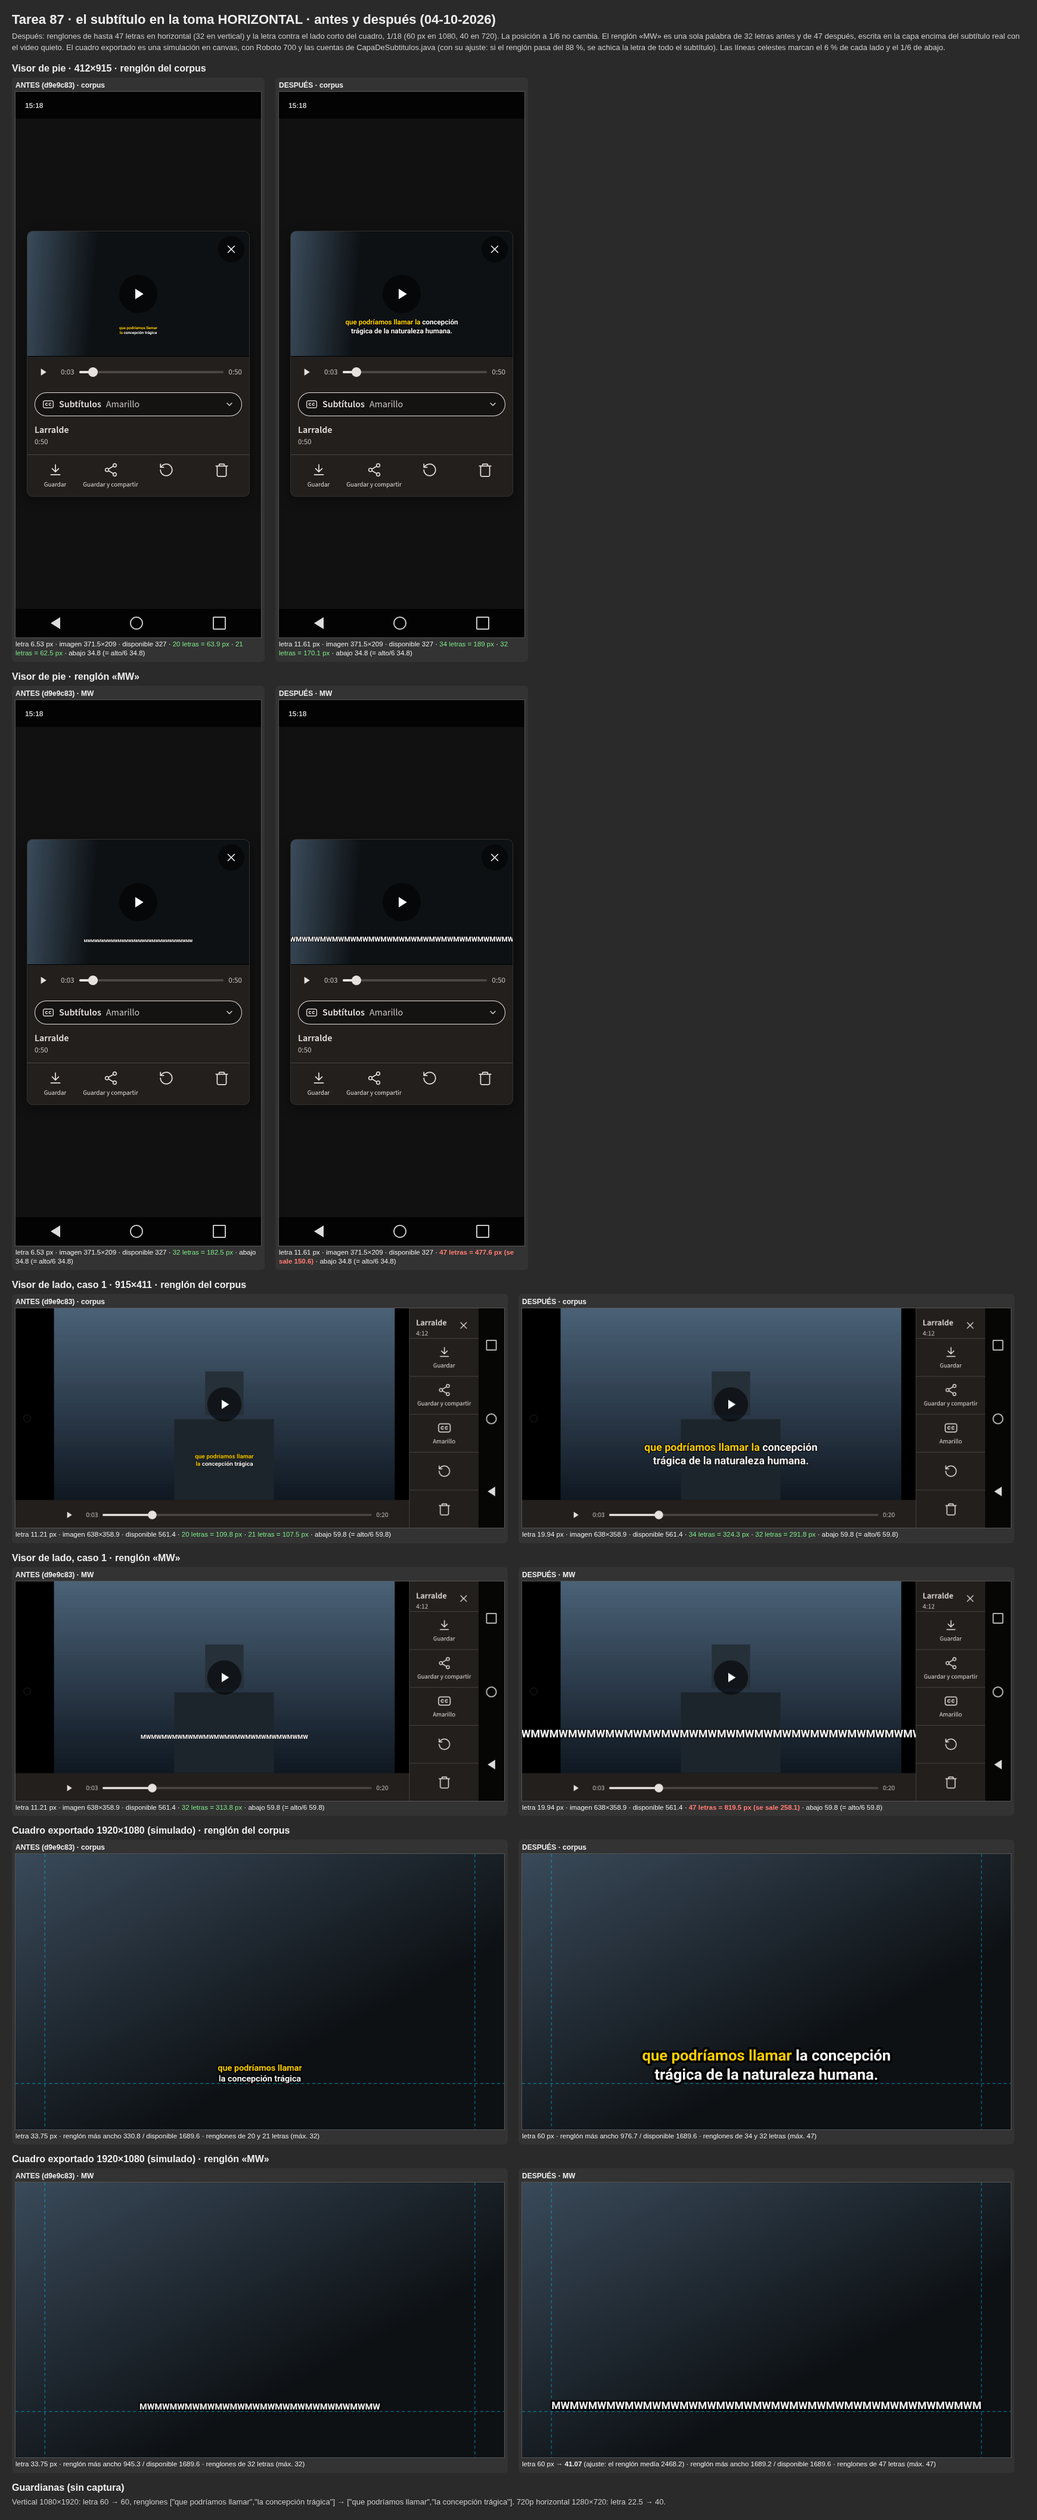
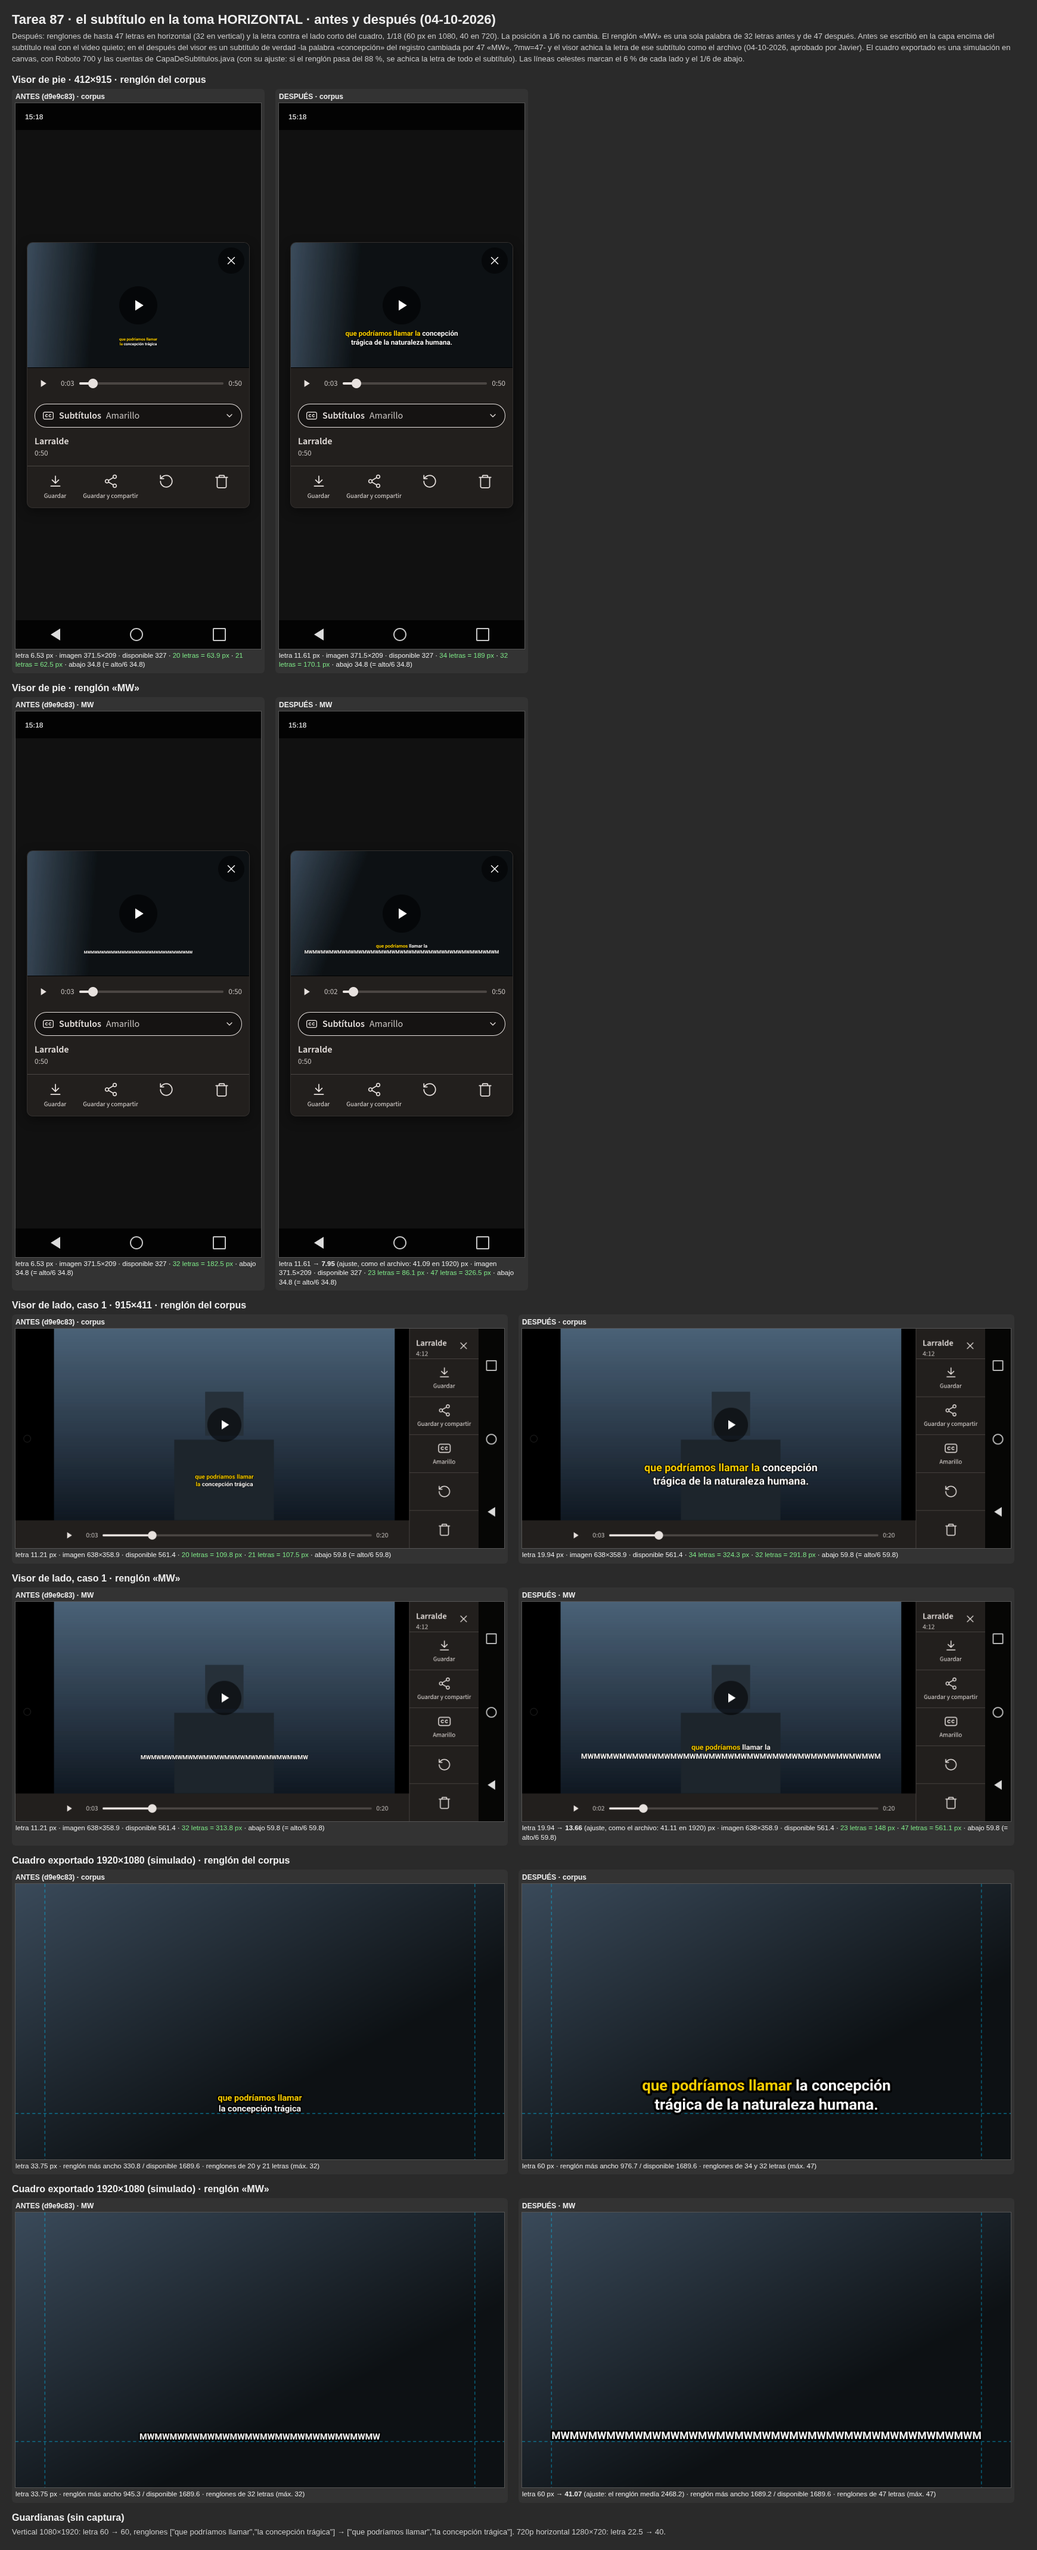
Tarea 87: el visor achica el renglón ancho como el archivo -canvas measureText, letraQueCabe- y la letra es el menor entre lado corto/18 y lado largo/32 -ninguna vertical cambia-; lámina horizontal: las vistas MW del visor

diff --git a/src/pruebas/tarea87-renglon-ancho.test.tsx b/src/pruebas/tarea87-renglon-ancho.test.tsx
@@ -1,0 +1,93 @@
+// EL RENGLÓN ANCHO EN EL VISOR Y LA LETRA MENOR -tarea 87, 04-10-2026, aprobado por Javier en el #71-:
+//   (1) el visor achica como el archivo: si el renglón más ancho pasa del 88 % de la imagen, la letra de
+//       ese subtítulo baja con la misma cuenta que UbicacionSubtitulos.letraQueCabe;
+//   (2) la letra es el menor entre lado corto / 18 y lado largo / 32: en 16:9 lo mismo que antes y
+//       ninguna vertical cambia -480×640 da 20-.
+// jsdom no tiene canvas: la medida -lib/medirTexto.ts- se reemplaza por los avances de Roboto Bold, los
+// mismos de UbicacionSubtitulosTest.java -M 1793, W 1792, espacio 509 de 2048 por em-; el resto de las
+// letras, 0,55 em.
+import React from 'react'
+import fs from 'node:fs'
+import path from 'node:path'
+import { describe, expect, test, vi, afterEach } from 'vitest'
+import { render, act, fireEvent, cleanup } from '@testing-library/react'
+
+const EM: Record<string, number> = { M: 1793 / 2048, W: 1792 / 2048, ' ': 509 / 2048 }
+const enEm = (t: string) => [...t].reduce((s, c) => s + (EM[c] ?? 0.55), 0)
+vi.mock('../lib/medirTexto', () => ({
+  anchoDelRenglonMasAncho: (renglones: string[], letra: number) => Math.max(...renglones.map((r) => enEm(r) * letra))
+}))
+
+import * as S from '../lib/subtitulos'
+import { CapaSubtitulos } from '../components/SubtitulosVisor'
+
+const JAVA = fs.readFileSync(path.join(__dirname, '..', '..', 'android', 'app', 'src', 'main', 'java', 'com', 'sigoteleprompter', 'app', 'UbicacionSubtitulos.java'), 'utf8')
+const MW47 = 'MW'.repeat(24).slice(0, 47)
+const sub = (renglones: string[]): S.Subtitulo => ({ desdeMs: 0, hastaMs: 5000, renglones: renglones.map((r) => r.split(' ').map((t) => ({ texto: t, desdeMs: 0, hastaMs: 100 }))) })
+
+// Un <video> con la forma del archivo y la caja que le da el visor.
+function capa(subs: S.Subtitulo[], ancho: number, alto: number, cajaAncho: number, cajaAlto: number) {
+  const v = document.createElement('video')
+  Object.defineProperty(v, 'videoWidth', { configurable: true, value: ancho })
+  Object.defineProperty(v, 'videoHeight', { configurable: true, value: alto })
+  Object.defineProperty(v, 'clientWidth', { configurable: true, value: cajaAncho })
+  Object.defineProperty(v, 'clientHeight', { configurable: true, value: cajaAlto })
+  Object.defineProperty(v, 'currentTime', { configurable: true, writable: true, value: 1 })
+  document.body.appendChild(v)
+  render(<CapaSubtitulos video={v} subtitulos={subs} estilo="amarillo" />)
+  return v
+}
+const esperar = () => act(async () => { await new Promise((r) => setTimeout(r, 20)) })
+afterEach(() => { cleanup(); document.body.innerHTML = '' })
+
+describe('(2) La letra: el menor entre lado corto / 18 y lado largo / 32', () => {
+  test('480×640 -vertical 3:4- da 20, como antes -640 / 32-; 640×480 también', () => {
+    expect(S.letraSubtitulo(480, 640)).toBe(20)
+    expect(S.letraSubtitulo(640, 480)).toBe(20)
+  })
+  test('GUARDIANA: en 16:9 lo de ahora -60 en 1080, 40 en 720-, de pie y acostado', () => {
+    expect(S.letraSubtitulo(1920, 1080)).toBe(60)
+    expect(S.letraSubtitulo(1080, 1920)).toBe(60)
+    expect(S.letraSubtitulo(1280, 720)).toBe(40)
+    expect(S.letraSubtitulo(720, 1280)).toBe(40)
+  })
+})
+
+describe('(1) El visor achica el renglón ancho como el archivo', () => {
+  test('la cuenta: 47 MW a 60 px en 1920 -2468 px- bajan a ~41,07 y caben en el 88 %', () => {
+    const ancho = enEm(MW47) * 60
+    expect(ancho).toBeGreaterThan(1920 * 0.88)
+    const l = S.letraQueCabe(60, ancho, 1920)
+    expect(l).toBeCloseTo(41.07, 1)
+    expect(enEm(MW47) * l).toBeLessThanOrEqual(1920 * S.ANCHO_UTIL_SUBTITULOS + 1e-6)
+    // Si cabe, no cambia.
+    expect(S.letraQueCabe(60, 1000, 1920)).toBe(60)
+  })
+
+  for (const [donde, cw, ch] of [['de pie', 372, 209.25], ['de lado, caso 1', 638, 358.875]] as const) {
+    test(`47 MW ${donde}: el renglón queda dentro del 88 % de la imagen, y la letra es la del archivo`, async () => {
+      capa([sub([MW47])], 1920, 1080, cw, ch)
+      await esperar()
+      const c = document.querySelector('[data-testid="capa-subtitulos"]') as HTMLElement
+      const letra = parseFloat(c.style.fontSize)
+      const w = parseFloat(c.style.width)
+      expect(enEm(MW47) * letra).toBeLessThanOrEqual(w * 0.88 + 1e-6)
+      expect(letra).toBeLessThan(S.letraSubtitulo(w, parseFloat(c.style.height)))
+      // La misma letra que el archivo de 1920×1080, en proporción a la imagen.
+      const archivo = S.letraQueCabe(60, enEm(MW47) * 60, 1920)
+      expect(letra * (1920 / w)).toBeCloseTo(archivo, 3)
+    })
+  }
+
+  test('GUARDIANA: un renglón que cabe no cambia la letra', async () => {
+    capa([sub(['que podríamos llamar la concepción', 'trágica de la naturaleza humana.'])], 1920, 1080, 372, 209.25)
+    await esperar()
+    const c = document.querySelector('[data-testid="capa-subtitulos"]') as HTMLElement
+    expect(parseFloat(c.style.fontSize)).toBeCloseTo(209.25 / 18, 6)
+  })
+
+  test('GUARDIANA: las cifras de TS y de Java son las mismas', () => {
+    expect(JAVA).toMatch(new RegExp(`ANCHO_UTIL = ${S.ANCHO_UTIL_SUBTITULOS}f;`))
+    expect(JAVA).toMatch(new RegExp(`LADO_LARGO_EN_LETRAS = ${S.LADO_LARGO_EN_LETRAS}f;`))
+  })
+})

diff --git a/src/components/SubtitulosVisor.tsx b/src/components/SubtitulosVisor.tsx
@@ -1,6 +1,7 @@
 import React from 'react'
 import { hapticaSeleccion } from '../haptica'
-import { ESTILOS_SUBTITULO, EstiloSubtitulo, Subtitulo, subtituloEn, MARGEN_ABAJO_SUBTITULOS, letraSubtitulo } from '../lib/subtitulos'
+import { ESTILOS_SUBTITULO, EstiloSubtitulo, Subtitulo, subtituloEn, MARGEN_ABAJO_SUBTITULOS, letraSubtitulo, letraQueCabe } from '../lib/subtitulos'
+import { anchoDelRenglonMasAncho } from '../lib/medirTexto'
 import { t, useTextos, ClaveTexto } from '../textos'
 import { IconoSubtitulos } from './IconosApp'
 
@@ -84,12 +85,19 @@ export function CapaSubtitulos({
   if (estilo === 'no' || !rect) return null
   const s = subtituloEn(subtitulos, ms)
   if (!s) return null
+  // -tarea 87, 04-10-2026, aprobado por Javier- La letra del cuadro y, si el renglón más ancho no cabe
+  // en el 88 % de la imagen, la misma letra achicada que tendrá quemada -letraQueCabe, la cuenta de
+  // UbicacionSubtitulos.java-. Medido con canvas y Roboto -lib/medirTexto.ts-; sin medida, sin ajuste.
+  const letraBase = letraSubtitulo(rect.w, rect.h)
+  const masAncho = anchoDelRenglonMasAncho(s.renglones.map((r) => r.map((w) => w.texto).join(' ')), letraBase, estilo !== 'formal')
+  const letra = masAncho === null ? letraBase : letraQueCabe(letraBase, masAncho, rect.w)
 
   return (
     <div
       className="capa-subtitulos"
       data-testid="capa-subtitulos"
       data-estilo={estilo}
+      data-letra-base={letraBase}
       aria-hidden="true"
       style={{
         left: rect.x,
@@ -101,7 +109,8 @@ export function CapaSubtitulos({
         // 1280-.
         // -tarea 87, subtítulos en horizontal- Contra el lado corto de la imagen, la misma cuenta del
         // archivo: en vertical es la de siempre; en horizontal ya no sale chica. Antes: rect.h / 32.
-        fontSize: letraSubtitulo(rect.w, rect.h)
+        // Antes, en esta misma tarea: letraSubtitulo(rect.w, rect.h), sin el ajuste del renglón ancho.
+        fontSize: letra
       }}
     >
       {/* -tarea 87, 04-10-2026- Un sexto del alto de la imagen, en vertical y en horizontal: la

diff --git a/src/lib/subtitulos.ts b/src/lib/subtitulos.ts
@@ -74,9 +74,22 @@ export function letrasPorRenglon(forma: FormaCuadro | 'cuadrada' | null | undefi
 // lado corto, o sea 60 px en 1080 y 40 en 720, en las dos orientaciones. En la vertical de 9:16 es la
 // letra de siempre -1/32 del alto, la del prototipo, 40 sobre 1280-. La misma cuenta que
 // UbicacionSubtitulos.letra en Java. Antes: alto / 32, que en horizontal daba 33,75 en 1080.
+// -04-10-2026, aprobado por Javier- El MENOR entre lado corto / 18 y lado largo / 32: en 16:9 los dos
+// dan lo mismo -60 en 1920×1080 y en 1080×1920- y ninguna vertical cambia -un 480×640 sigue en 20,
+// lado largo / 32, como antes; con solo el lado corto daba 26,7-. Antes: lado corto / 18 a secas.
 export const LADO_CORTO_EN_LETRAS = 18
+export const LADO_LARGO_EN_LETRAS = 32
 export function letraSubtitulo(ancho: number, alto: number): number {
-  return Math.min(ancho, alto) / LADO_CORTO_EN_LETRAS
+  return Math.min(Math.min(ancho, alto) / LADO_CORTO_EN_LETRAS, Math.max(ancho, alto) / LADO_LARGO_EN_LETRAS)
+}
+// EL AJUSTE DEL RENGLÓN ANCHO -04-10-2026, aprobado por Javier-: si el renglón más ancho del subtítulo,
+// medido a la letra "letra", pasa del 88 % del ancho de la imagen, se achica la letra de todo ese
+// subtítulo en la misma proporción. La misma cuenta que UbicacionSubtitulos.letraQueCabe del archivo:
+// así el visor muestra lo mismo que se guarda.
+export const ANCHO_UTIL_SUBTITULOS = 0.88
+export function letraQueCabe(letra: number, masAncho: number, ancho: number): number {
+  const util = ancho * ANCHO_UTIL_SUBTITULOS
+  return masAncho > util ? (letra * util) / masAncho : letra
 }
 // Una pausa de la voz de mas de esto corta el subtitulo aunque la oracion siga.
 export const PAUSA_QUE_CORTA_MS = 450

diff --git a/src/lib/medirTexto.ts b/src/lib/medirTexto.ts
@@ -1,0 +1,29 @@
+// EL ANCHO DE UN RENGLÓN DE SUBTÍTULO, MEDIDO CON LA LETRA DE VERDAD -tarea 87, 04-10-2026, aprobado
+// por Javier-. El visor achica la letra de un subtítulo cuyo renglón más ancho pasa del 88 % de la
+// imagen, como el archivo -UbicacionSubtitulos.letraQueCabe, que mide con Paint.measureText-. Aquí se
+// mide con un canvas -measureText- con la misma letra del sistema que usa la capa: Roboto, 700 en
+// amarillo y rojo y 400 en formal. Sin dependencias nuevas.
+// Devuelve null si no se puede medir -sin canvas, o en jsdom, que no lo implementa-: entonces el visor
+// deja la letra sin ajuste, como antes.
+let ctx: CanvasRenderingContext2D | null | undefined
+function contexto(): CanvasRenderingContext2D | null {
+  if (ctx !== undefined) return ctx
+  try {
+    if (typeof document === 'undefined' || (typeof navigator !== 'undefined' && /jsdom/i.test(navigator.userAgent))) ctx = null
+    else ctx = document.createElement('canvas').getContext('2d')
+  } catch {
+    ctx = null
+  }
+  return ctx
+}
+
+// El ancho, en px, del renglón más ancho a la letra "letra". Los renglones van con sus palabras
+// unidas por un espacio, como los dibuja la capa y como los suma anchoDe en CapaDeSubtitulos.java.
+export function anchoDelRenglonMasAncho(renglones: string[], letra: number, negrita: boolean): number | null {
+  const c = contexto()
+  if (!c) return null
+  c.font = `${negrita ? 700 : 400} ${letra}px Roboto, sans-serif`
+  let max = 0
+  for (const r of renglones) max = Math.max(max, c.measureText(r).width)
+  return max
+}

diff --git a/docs/pantallas/tarea87/implementacion/herramientas/archivosNativosApp.ts b/docs/pantallas/tarea87/implementacion/herramientas/archivosNativosApp.ts
@@ -14,7 +14,12 @@ export type AnalisisVideo = { duracionMs: number; bytes: number; tienePistaAudio
 export type FormaDeToma = Record<string, unknown>
 export async function directorioGrabaciones(): Promise<string> { return '/grabaciones' }
 export async function escribirTexto(_r: string, _c: string): Promise<void> {}
+// ?mw=47 -tarea 87, el renglón ancho, 04-10-2026-: la palabra «concepción» del registro -en el guion y
+// en lo oído- pasa a ser una sola palabra de 47 letras «MW», para ver el ajuste del visor con un
+// subtítulo de verdad.
 export async function leerTexto(_ruta: string): Promise<string> {
+  const mw = Number(q.get('mw') || '0')
+  if (q.get('subs') === 'si' && mw > 0) return registro.split('concepción').join('MW'.repeat(mw).slice(0, mw))
   if (q.get('subs') === 'si') return registro
   throw new Error('sin registro')
 }

diff --git a/android/app/src/main/java/com/sigoteleprompter/app/UbicacionSubtitulos.java b/android/app/src/main/java/com/sigoteleprompter/app/UbicacionSubtitulos.java
@@ -36,9 +36,13 @@ final class UbicacionSubtitulos {
     // píxel: 1080 / 18 = 1920 / 32 = 60. La misma cuenta que letraSubtitulo en src/lib/subtitulos.ts.
     // Antes: H / 32f en CapaDeSubtitulos, que en horizontal daba 33,75 en 1080.
     static final float LADO_CORTO_EN_LETRAS = 18f;
+    // -04-10-2026, aprobado por Javier- El MENOR entre lado corto / 18 y lado largo / 32: en 16:9 da lo
+    // mismo y ninguna vertical cambia -480×640 sigue en 20-. LADO_LARGO_EN_LETRAS en subtitulos.ts.
+    // Antes: Math.min(W, H) / LADO_CORTO_EN_LETRAS a secas.
+    static final float LADO_LARGO_EN_LETRAS = 32f;
 
     static float letra(float W, float H) {
-        return Math.min(W, H) / LADO_CORTO_EN_LETRAS;
+        return Math.min(Math.min(W, H) / LADO_CORTO_EN_LETRAS, Math.max(W, H) / LADO_LARGO_EN_LETRAS);
     }
 
     // El ancho que puede ocupar un renglón: el 88 % del cuadro -6 % de margen a cada lado, como el

diff --git a/android/app/src/test/java/com/sigoteleprompter/app/UbicacionSubtitulosTest.java b/android/app/src/test/java/com/sigoteleprompter/app/UbicacionSubtitulosTest.java
@@ -38,6 +38,13 @@ public class UbicacionSubtitulosTest {
         assertEquals(40f, UbicacionSubtitulos.letra(1280, 720), 0f);
     }
 
+    // -04-10-2026- El menor entre lado corto / 18 y lado largo / 32: una vertical 3:4 sigue como antes.
+    @Test
+    public void unaVertical480x640SigueEn20() {
+        assertEquals(20f, UbicacionSubtitulos.letra(480, 640), 0f);
+        assertEquals(20f, UbicacionSubtitulos.letra(640, 480), 0f);
+    }
+
     // GUARDIANA: la vertical, igual que antes -H / 32f-, al píxel.
     @Test
     public void enVerticalLaLetraEsLaDeAntes() {

diff --git a/docs/pantallas/tarea87/medidas-implementacion.md b/docs/pantallas/tarea87/medidas-implementacion.md
@@ -330,8 +330,8 @@ W = 1792/2048 em, o sea 41,14 em.
 | Dónde | Ancho a la letra nueva | Disponible (88 %) | Resultado |
 |---|---|---|---|
 | Archivo 1920×1080, letra 60 | 2468,2 px | 1689,6 | **No cabe** (+778,6). Lo resuelve el ajuste que ya tenía CapaDeSubtitulos, ahora en `UbicacionSubtitulos.letraQueCabe`: la letra de ese subtítulo baja a **41,07** y el renglón mide 1689,2 |
-| Visor de pie, letra 11,61 | 477,6 | 327 | **Se sale 150,6** (46 %): pasa el borde de la imagen |
-| Visor de lado caso 1, letra 19,94 | 819,5 | 561,4 | **Se sale 258,1**: pasa sobre la franja y la columna |
+| Visor de pie, letra 11,61 | 477,6 | 327 | Antes del ajuste del visor se salía 150,6 (46 %). **Ahora** la letra baja a **7,95** y el renglón mide 326,5 |
+| Visor de lado caso 1, letra 19,94 | 819,5 | 561,4 | Antes del ajuste se salía 258,1. **Ahora** la letra baja a **13,66** y el renglón mide 561,1 |
 
 Antes, con 32 «MW», cabía en todos los casos: 945,3 de 1689,6 en el archivo, 182,5 de 327 de pie y
 313,8 de 561,4 de lado. En vertical pasa lo mismo hoy: 32 «MW» a 60 px miden 1680 de 950,4, el
@@ -340,11 +340,21 @@ archivo achica la letra y el visor no.
 Un renglón ancho con espacios, como «MW MW …» de 47 letras (31,7 em), mide en el archivo 1904 px:
 la letra baja a 53,2. En el visor no se sale: se parte en dos líneas y el subtítulo queda de tres.
 
-**Salida propuesta para el visor (NO aplicada):** que el visor haga lo mismo que el archivo. Se mide
-el renglón más ancho con un canvas, con Roboto 700 a la letra calculada, y si pasa del 88 % de la
-imagen se achica la letra de todo el subtítulo con la misma cuenta de `letraQueCabe`. Así el visor
-mostraría lo mismo que queda guardado. La otra salida es partir antes, por ancho medido en vez de por
-letras; esa cambiaría los renglones también en el archivo.
+**El visor achica como el archivo (04-10-2026, aprobado por Javier).**
+
+- `src/lib/medirTexto.ts` mide el renglón más ancho con un canvas (`measureText`), en Roboto 700, o 400
+  en formal.
+- Si pasa del 88 % de la imagen, la letra de ese subtítulo baja con la misma cuenta del archivo:
+  `letraQueCabe` en `src/lib/subtitulos.ts`, igual a `UbicacionSubtitulos.letraQueCabe`.
+- Llevadas a 1920 de ancho, las letras coinciden: 41,08 de pie (7,95 en 371,5), 41,11 de lado (13,66
+  en 638) y 41,07 en el archivo. La diferencia es el redondeo de la letra en la medida.
+- Sin canvas (jsdom) no hay ajuste.
+
+**La letra es el menor entre lado corto / 18 y lado largo / 32** (aprobado por Javier). En 16:9 da lo
+mismo que lado corto / 18 y ninguna vertical cambia: un 480×640 sigue en 20, cuando con solo el lado
+corto daba 26,7.
+
+Antes estaba propuesto partir antes, por ancho medido; no se hizo.
 
 La lámina es `horizontal/lamina-horizontal.png`, con las sueltas `horizontal/{antes,despues}-*.png`.
 Las herramientas están en `horizontal/herramientas/`: `capturas.cjs antes|despues`, `cuadro.tsx` (el

diff --git a/docs/mediciones/tarea87/LEEME.md b/docs/mediciones/tarea87/LEEME.md
@@ -43,5 +43,5 @@ dibujando el archivo a 1/8.
   - `letra_base_px=60` en 1080 de lado corto, o 40 en 720;
   - `caja_abajo_px` = H/6, sin cambio.
 - **El visor**, con una captura de pie y de lado (caso 1): el subtítulo ya no es chico. En una imagen de 209 dp de alto la letra es de 11,6 dp (antes 6,5), y los renglones son de hasta 47 letras.
-- **Un renglón muy ancho:** en el archivo, la letra de ese subtítulo baja hasta que cabe; mirar `letra_px` contra `letra_base_px`. En el visor no hay ajuste: un renglón más ancho que el 88 % se parte en dos líneas o, si es una sola palabra, se sale del margen (ver `docs/pantallas/tarea87/medidas-implementacion.md`).
-- **La forma del 480p (`evento=forma`):** si no es 9:16 (por ejemplo, 480×640), su letra en vertical cambia: era alto/32 = 20 y ahora es lado corto/18 = 26,7.
+- **Un renglón muy ancho:** la letra de ese subtítulo baja hasta que cabe, en el archivo (mirar `letra_px` contra `letra_base_px`) y también en el visor, con la misma cuenta. En una captura el visor tiene que verse igual que el archivo.
+- **La letra** es el menor entre lado corto / 18 y lado largo / 32. Ninguna vertical cambia: un 480p de 480×640, si lo es, sigue en 20.
